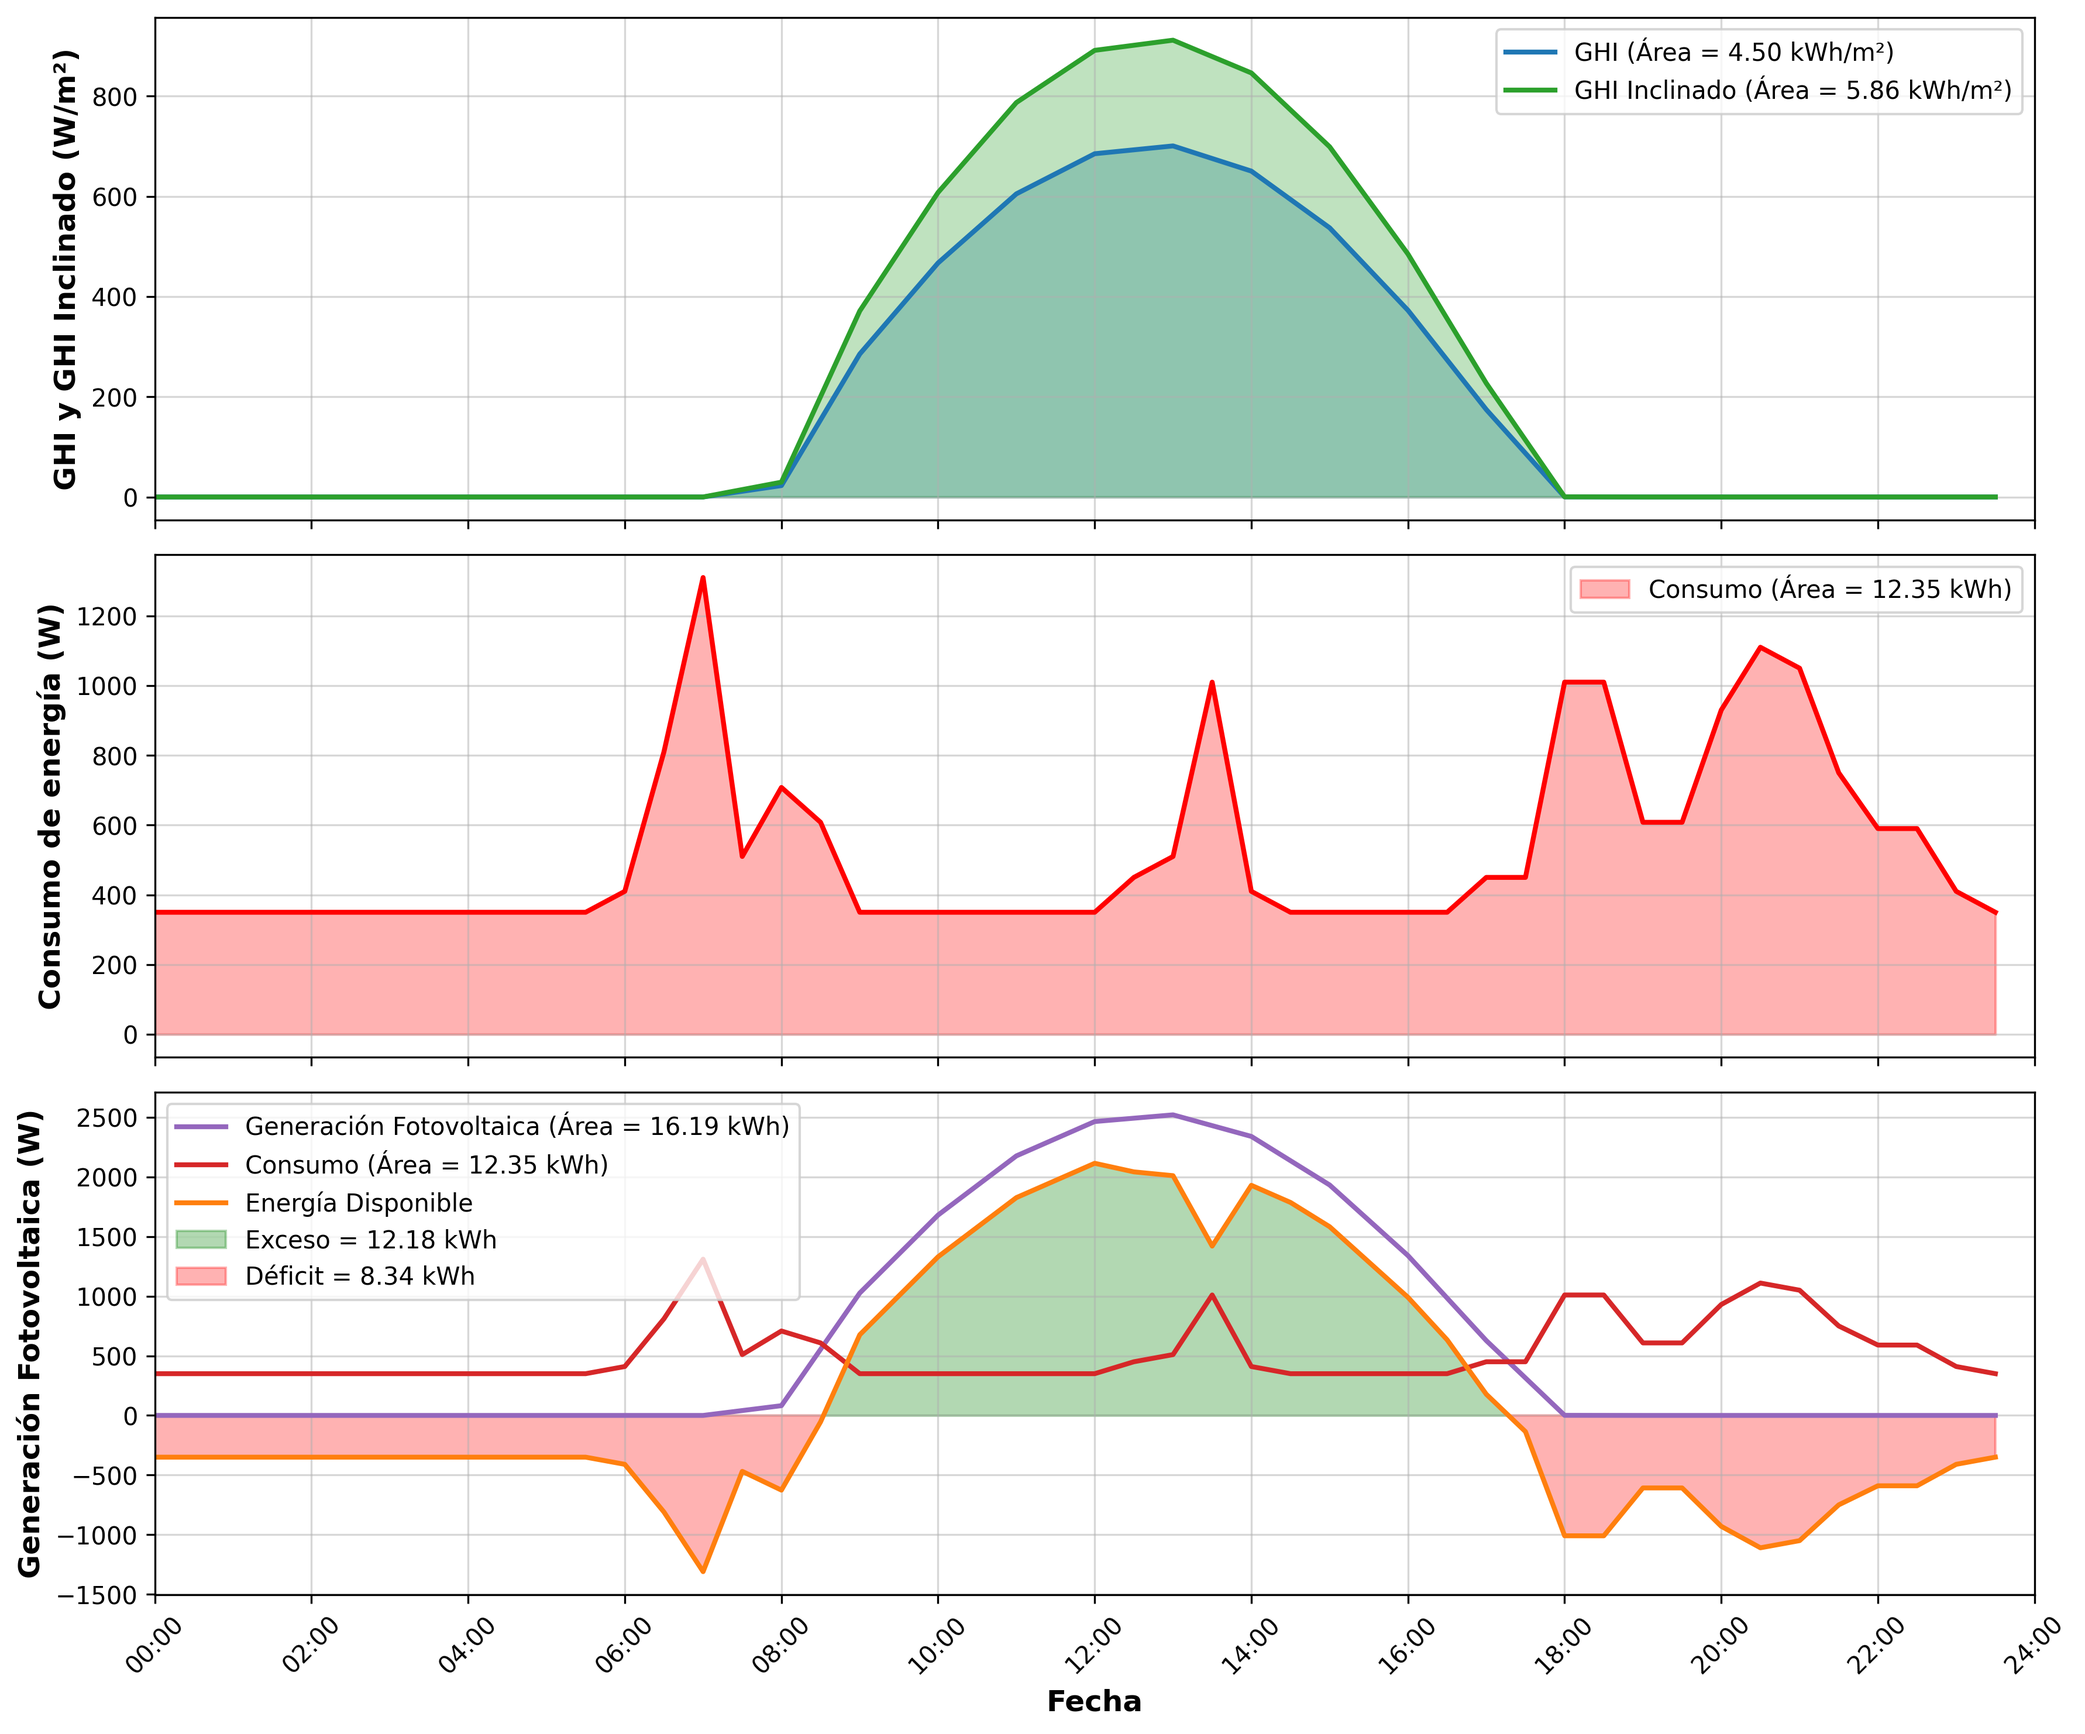
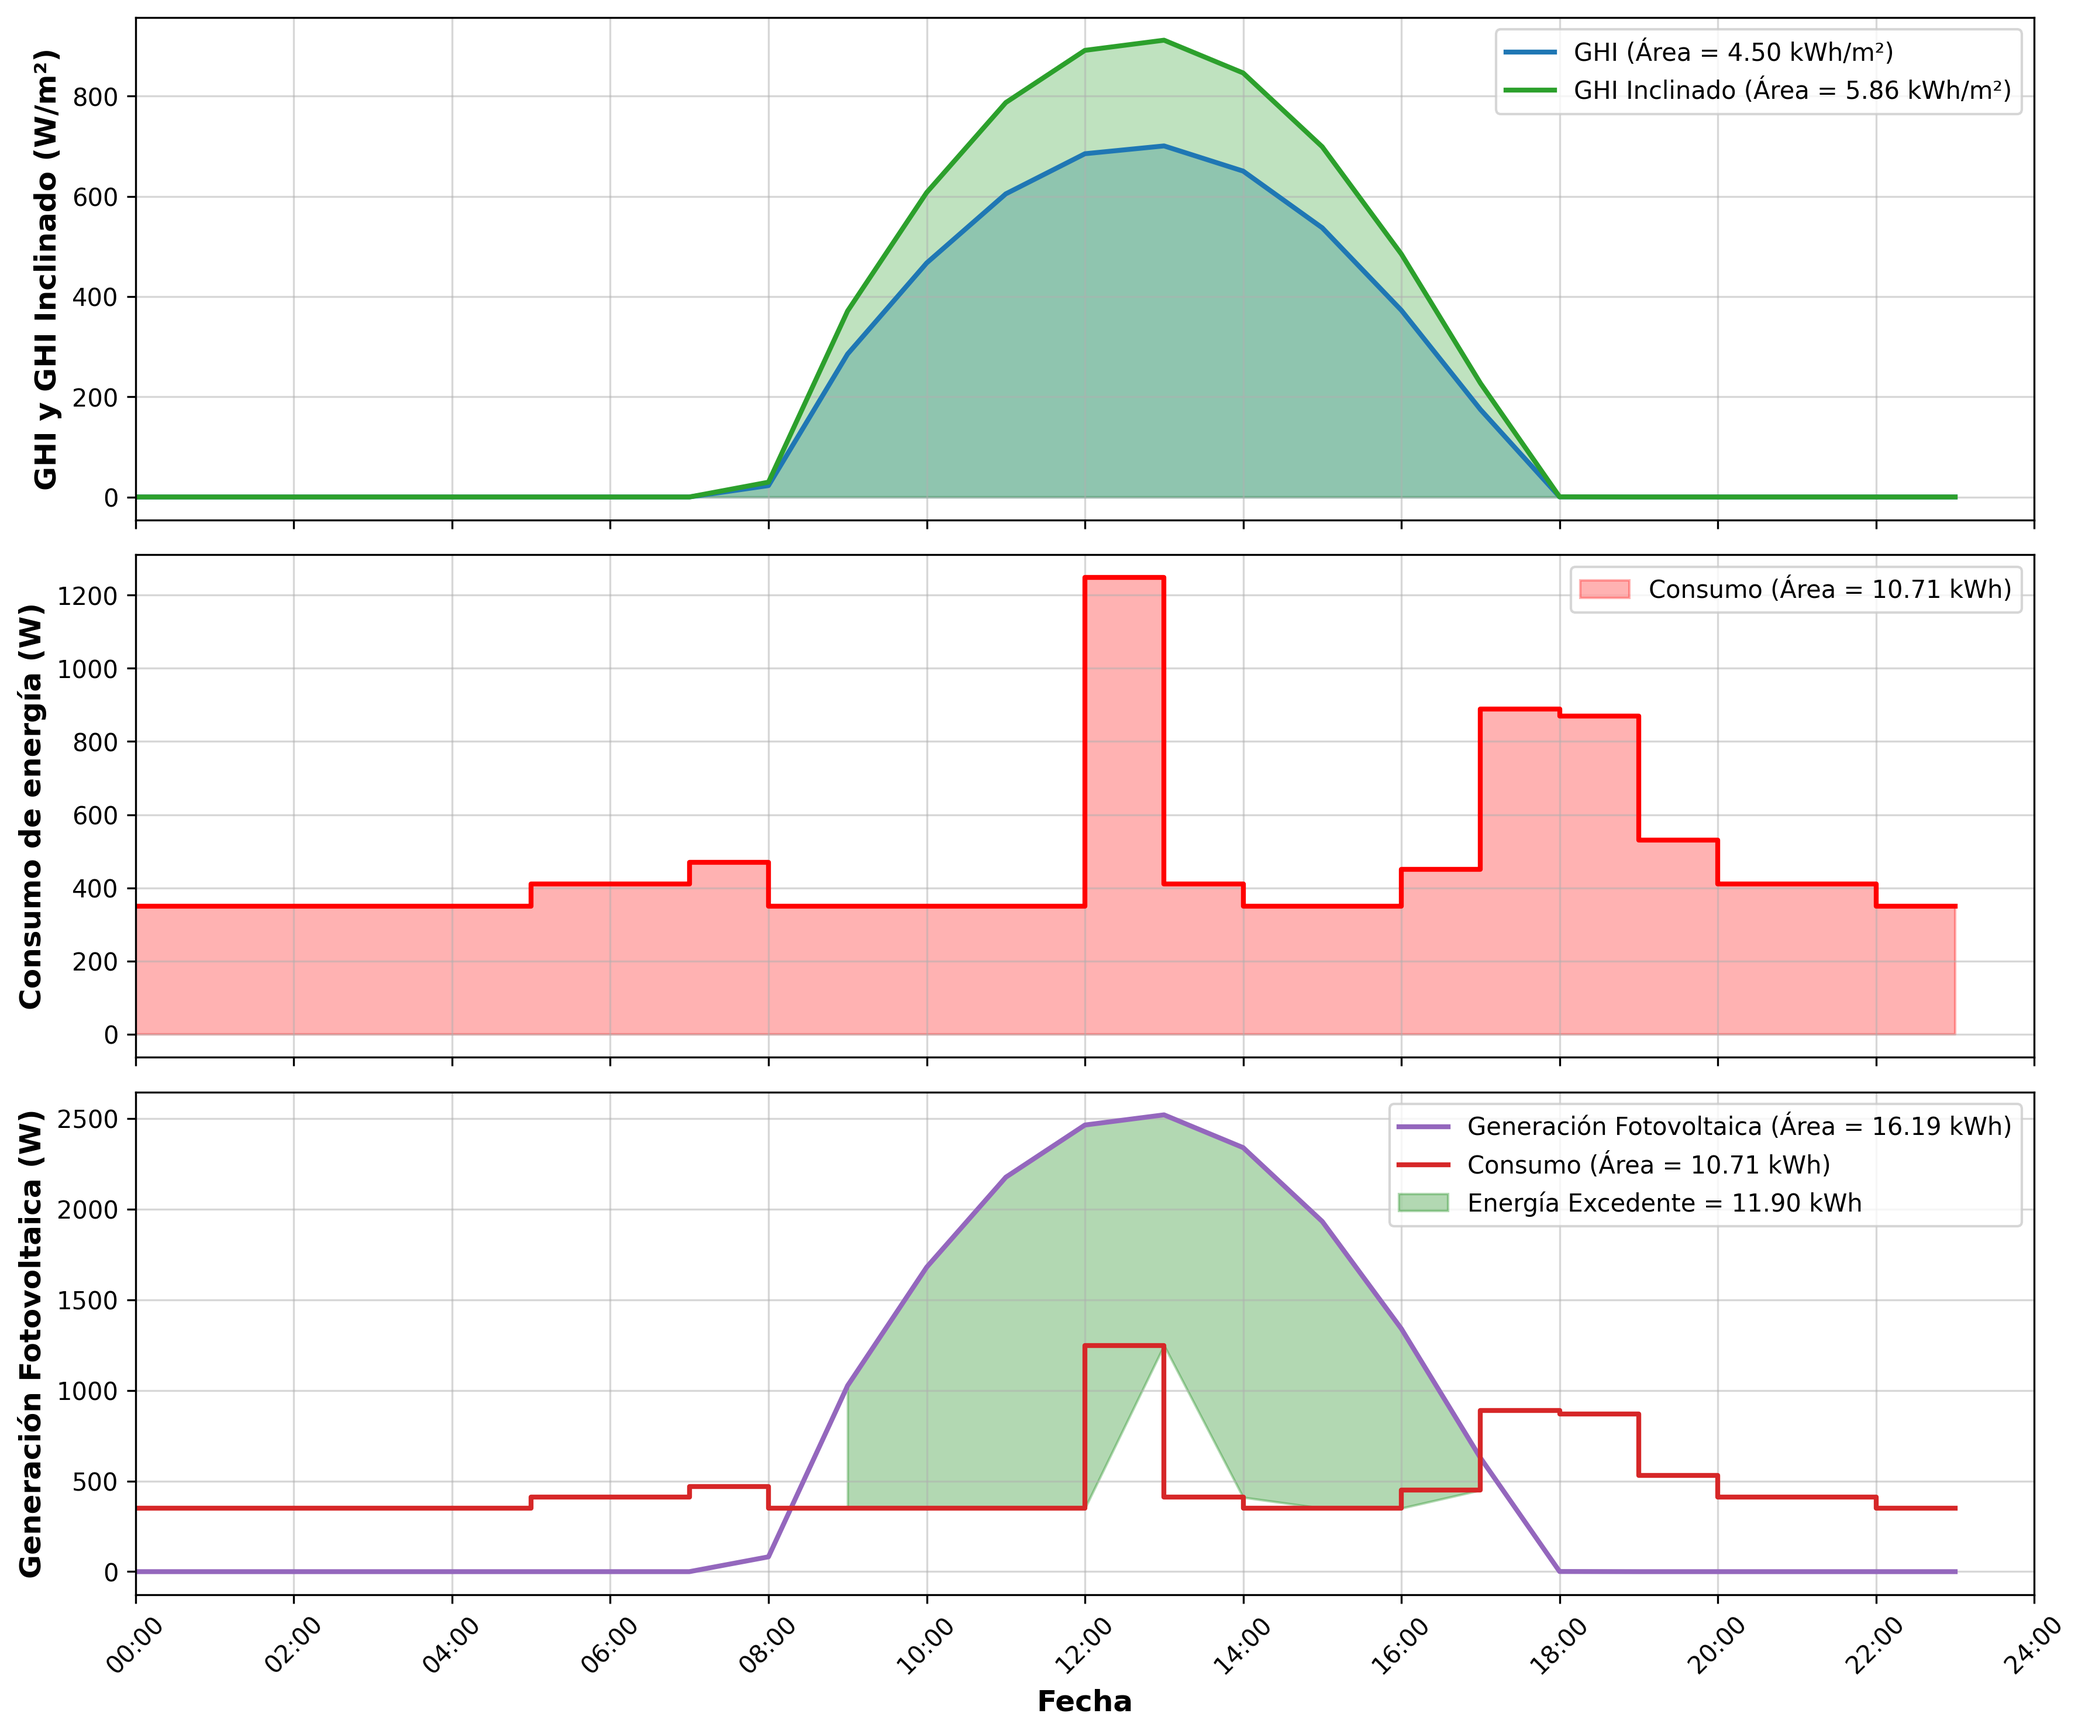
actualizado generacion optimizada

diff --git a/recurso_consumo.py b/recurso_consumo.py
@@ -7,9 +7,9 @@ from datetime import datetime, timedelta
 
 def main():
     # Rutas de archivos
-    recurso_solar_file = "/home/nicole/UA/OFFGRID/OFFGRID/Recurso_solar.xlsx"
-    cargas_file = "/home/nicole/UA/OFFGRID/OFFGRID/cargas.xlsx"
-    output_png = "/home/nicole/UA/OFFGRID/OFFGRID/sistema_fotovoltaico_completo.png"
+    recurso_solar_file = "/home/nicole/UA//NicoleTorres/OFFGRID/Recurso_solar.xlsx"
+    cargas_file = "/home/nicole/UA//NicoleTorres/OFFGRID/cargas_opt.xlsx"
+    output_png = "/home/nicole/UA//NicoleTorres/OFFGRID/sistema_fotovoltaico_completo.png"
     
     # 1. CARGAR DATOS DE IRRADIANCIA
     df_solar = pd.read_excel(recurso_solar_file)
